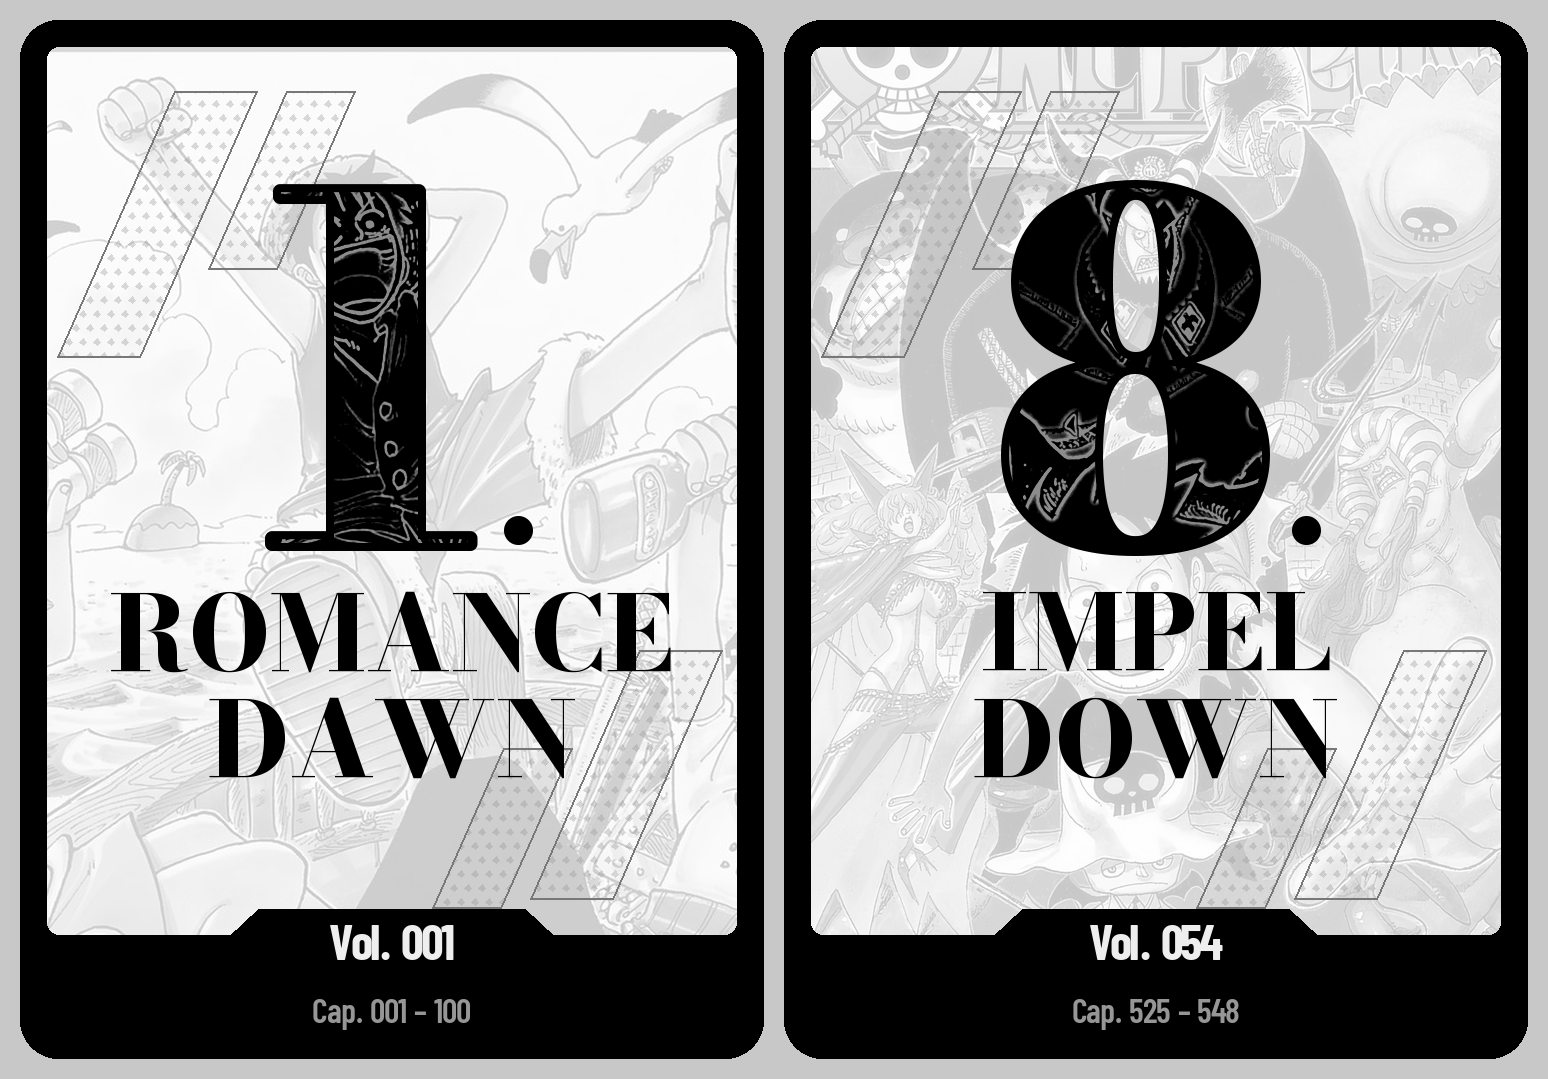
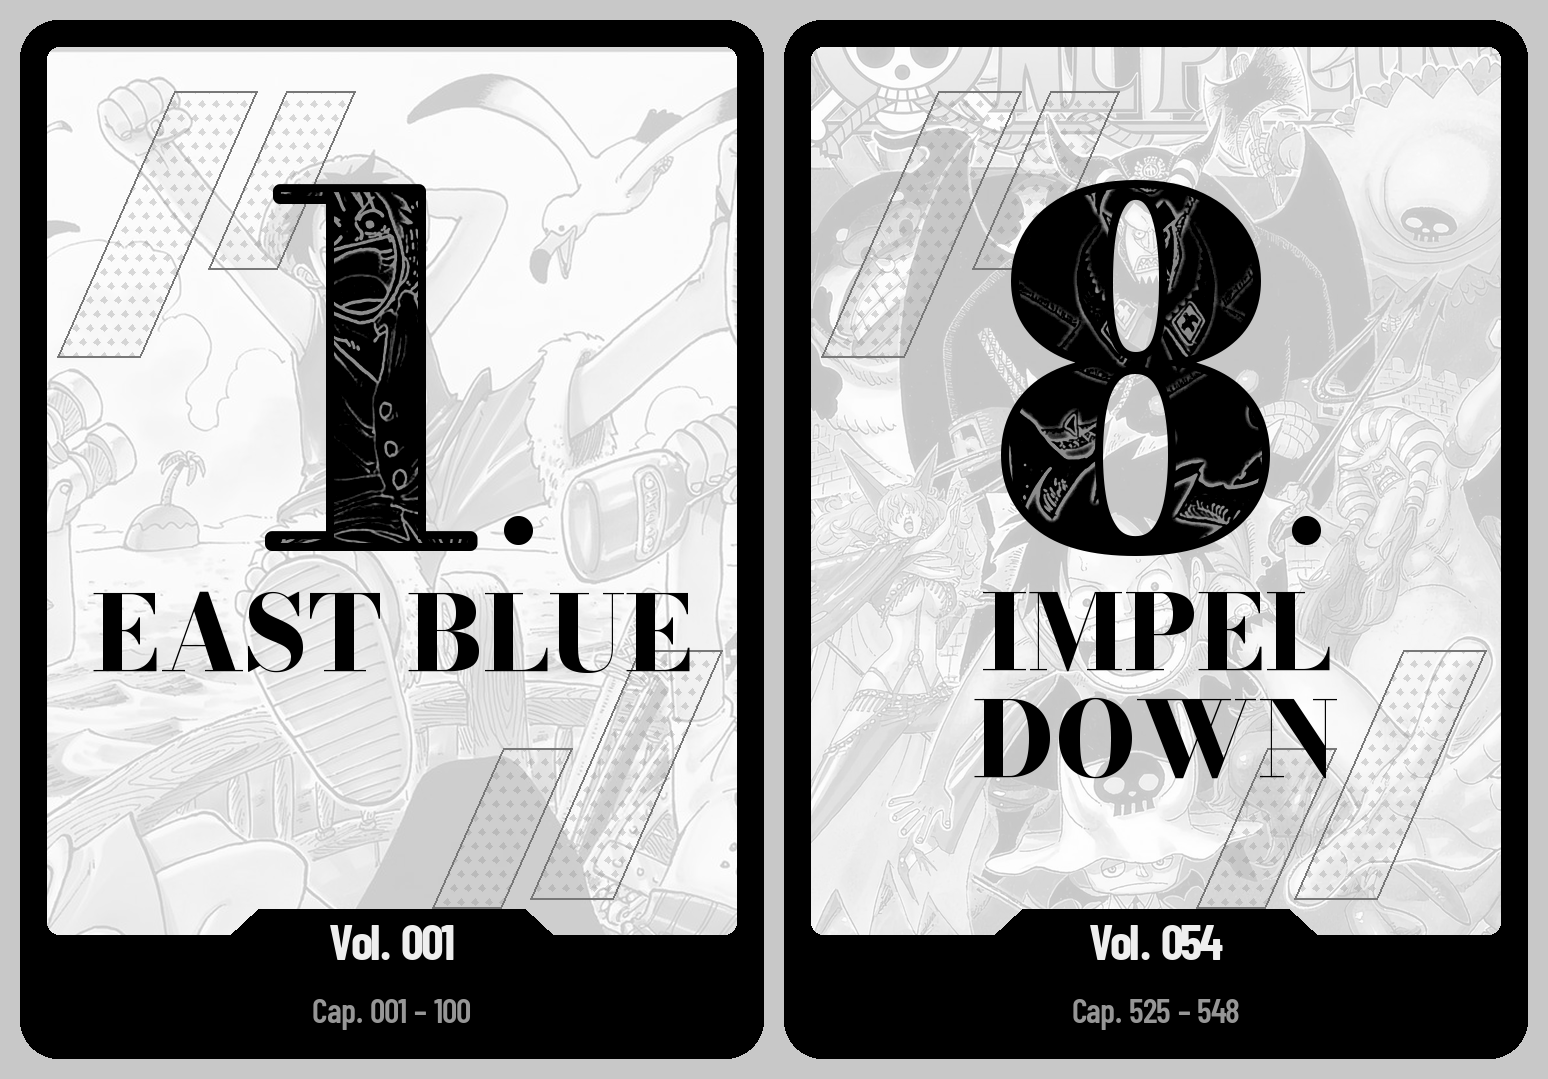
Divisorias 2, 3 e 4 com capas dos vols. 20, 30 e 37; East Blue e Elbaph
- Arco 1 passa a se chamar East Blue
- Arco 16 Elbaph (vol. 111, a partir do cap. 1126, sem capitulo final)
- CAPAS permite usar no fundo uma capa diferente do volume de inicio
- Recortes das capas japonesas sem logo, titulo e creditos

Claude-Session: https://claude.ai/code/session_01LHL1oXfKFVfPsdd7KjeSYM

Changed region(s): [[0.062, 0.5505, 0.4651, 0.734]]

diff --git a/divisoria.py b/divisoria.py
@@ -1,7 +1,8 @@
 """Divisorias de arco para o fichario: frente, verso e folhas A4 com sangria.
 
 uso: python divisoria.py <pasta-de-saida> <pasta-das-capas>
-As capas sao vol-NNN.jpg (o volume onde o arco comeca). Capa que falta sai sem fundo.
+As capas sao vol-NNN.jpg: o volume onde o arco comeca, ou o escolhido em CAPAS.
+Capa que falta sai sem fundo.
 """
 import sys, os
 from PIL import Image, ImageDraw, ImageFont, ImageOps, ImageFilter
@@ -42,7 +43,7 @@ RETA_LIVRE = {"Bold Condensed": os.path.join(FONTES, "BarlowCondensed-Bold.ttf")
 
 ARCOS = [
     # numero, nome, volume, capitulos, novo mundo
-    (1, "Romance Dawn", 1, (1, 100), False),
+    (1, "East Blue", 1, (1, 100), False),
     (2, "Alabasta", 17, (155, 217), False),
     (3, "Skypiea", 26, (237, 302), False),
     (4, "Water 7", 34, (322, 374), False),
@@ -57,12 +58,19 @@ ARCOS = [
     (13, "Whole Cake Island", 82, (825, 902), True),
     (14, "Wano", 90, (909, 1057), True),
     (15, "Egghead", 105, (1058, 1125), True),
+    (16, "Elbaph", 111, (1126, None), True),     # em andamento: sem capitulo final
 ]
+
+# arcos cujo fundo vem de outra capa que nao a do volume de inicio
+CAPAS = {2: 20, 3: 30, 4: 37}
 
 # o recorte de cada capa que fica no fundo: sem o logo e sem os creditos
 # (esquerda, topo, direita, base), em fracao da capa
 RECORTES = {
     1: (0.12, 0.27, 0.875, 0.695),   # so o quadro da ilustracao
+    20: (0.0, 0.31, 1.0, 0.89),
+    30: (0.0, 0.315, 1.0, 0.90),
+    37: (0.0, 0.295, 1.0, 0.89),
     54: (0.0, 0.18, 1.0, 0.90),
 }
 RECORTE_PADRAO = (0.0, 0.17, 1.0, 0.90)
@@ -179,7 +187,9 @@ def rodape(d, meio, jy1, volume, caps):
     escreve_junto(d, meio, jy1 - ABA_ALT + mm(2.6), "Vol. %03d" % volume,
                   fv, CINZA_TEXTO, mm(0.25))
     fc = fonte_reta(mm(2.9), "SemiBold Condensed")
-    escreve_junto(d, meio, jy1 + mm(6.3), "Cap. %03d \u2013 %03d" % caps,
+    ini, fim = caps
+    texto = "Cap. %03d \u2013 %03d" % caps if fim else "Cap. %03d \u2013" % ini
+    escreve_junto(d, meio, jy1 + mm(6.3), texto,
                   fc, CINZA_APOIO, mm(0.12))
 
 
@@ -234,8 +244,9 @@ def frente(arco, pasta_capas, sangria):
     jx0, jy0, jx1, jy1 = b + LADO, b + LADO, b + W - LADO, b + H - BLOCO
     jw, jh = jx1 - jx0, jy1 - jy0
 
-    capa = capa_de(pasta_capas, volume)
-    a = arte(capa, volume, jw, jh) if capa else Image.new("L", (jw, jh), 255)
+    vol_capa = CAPAS.get(numero, volume)
+    capa = capa_de(pasta_capas, vol_capa)
+    a = arte(capa, vol_capa, jw, jh) if capa else Image.new("L", (jw, jh), 255)
     janela = Image.blend(Image.new("L", (jw, jh), 255), a, OPACIDADE).convert("RGB")
     mj = Image.new("L", (jw, jh), 0)
     ImageDraw.Draw(mj).rounded_rectangle([0, 0, jw - 1, jh - 1], radius=RAIO_DENTRO, fill=255)
@@ -255,7 +266,7 @@ def frente(arco, pasta_capas, sangria):
             xa = meio + s * (tl / 2 + mm(1.5))
             d.line([(xa, y), (xa + s * mm(6), y)], fill=(40, 40, 40), width=2)
 
-    nome_e_numero(d, img, b, jy0, jh, jw - mm(6), numero, nome, "black", capa, volume)
+    nome_e_numero(d, img, b, jy0, jh, jw - mm(6), numero, nome, "black", capa, vol_capa)
     rodape(d, meio, jy1, volume, caps)
     return img
 
@@ -315,7 +326,8 @@ if __name__ == "__main__":
     os.makedirs(os.path.join(saida, "cartas"), exist_ok=True)
     frentes, versos, sem_capa = [], [], []
     for arco in ARCOS:
-        n, vol = arco[0], arco[2]
+        n = arco[0]
+        vol = CAPAS.get(n, arco[2])
         if not capa_de(capas, vol):
             sem_capa.append(vol)
         arredonda(frente(arco, capas, False)).save(
